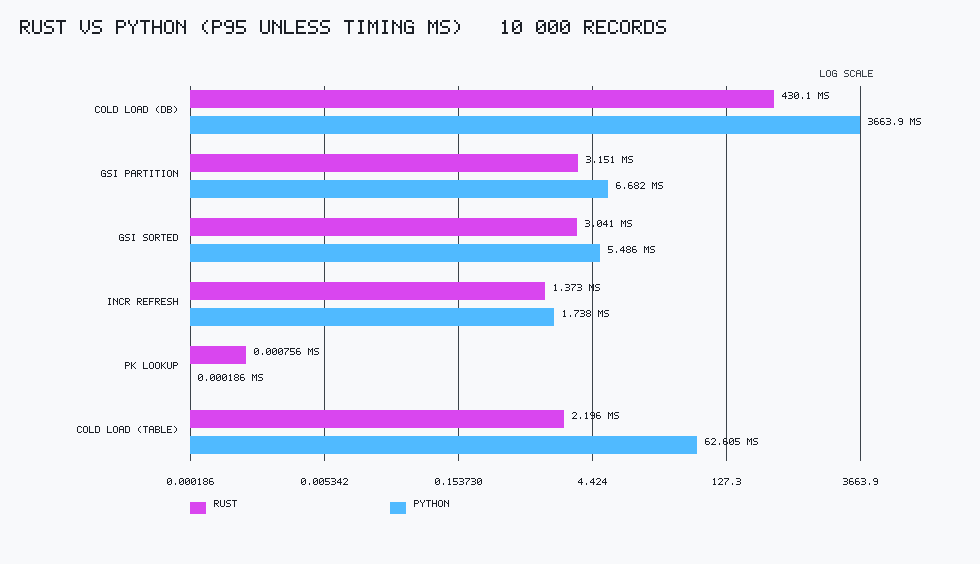
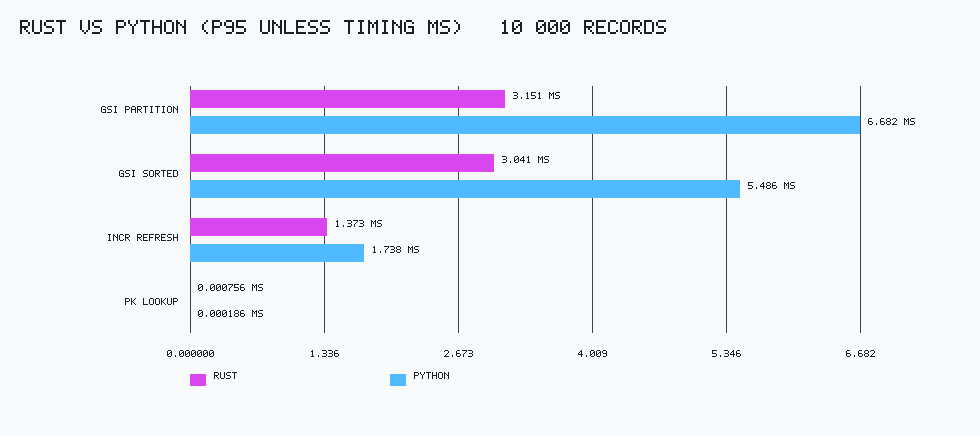
Use zero-based scales for benchmark charts

diff --git a/features/steps/benchmark_steps.py b/features/steps/benchmark_steps.py
@@ -519,8 +519,6 @@ def _render_grouped_bar_chart(  # pragma: no cover - exercised via tools/bench_c
         if data.get(cat, {}).get(label, 0.0) > 0
     ]
     max_val = max(values) if values else 1.0
-    min_val = min(values) if values else max_val
-    use_log = values and max_val / max(min_val, 1e-9) > 20
     plot_top = margin_top
     plot_bottom = height - margin_bottom
     plot_height = plot_bottom - plot_top
@@ -528,12 +526,8 @@ def _render_grouped_bar_chart(  # pragma: no cover - exercised via tools/bench_c
     _draw_line(rows, margin_left, plot_bottom, width - margin_right, plot_bottom, axis_color)
     y_ticks = 5
     for idx in range(y_ticks + 1):
-        if use_log:
-            val = min_val * (max_val / min_val) ** (idx / y_ticks)
-            y = plot_bottom - int(plot_height * idx / y_ticks)
-        else:
-            val = max_val * idx / y_ticks
-            y = plot_bottom - int(plot_height * idx / y_ticks)
+        val = max_val * idx / y_ticks
+        y = plot_bottom - int(plot_height * idx / y_ticks)
         _draw_line(rows, margin_left - 4, y, margin_left, y, axis_color)
         label = _format_value_ms(val).replace(" MS", "")
         _draw_text(rows, max(margin_left - 8 - _text_width(label, 1), 0), y - 3, label, text_color, scale=1)
@@ -567,19 +561,7 @@ def _render_grouped_bar_chart(  # pragma: no cover - exercised via tools/bench_c
         for idx, label in enumerate(series_labels):
             color = palette[idx % len(palette)]
             value = data.get(cat, {}).get(label, 0.0)
-            if use_log:
-                if value <= 0 or min_val <= 0 or max_val <= min_val:
-                    bar_h = 0
-                else:
-                    import math
-
-                    bar_h = int(
-                        (math.log(value) - math.log(min_val))
-                        / (math.log(max_val) - math.log(min_val))
-                        * plot_height
-                    )
-            else:
-                bar_h = int((value / max_val) * plot_height) if max_val else 0
+            bar_h = int((value / max_val) * plot_height) if max_val else 0
             x0 = cursor_x + idx * (bar_width + bar_gap)
             y0 = plot_bottom - bar_h
             _draw_rect(rows, x0, y0, bar_width, bar_h, color)
@@ -593,8 +575,6 @@ def _render_grouped_bar_chart(  # pragma: no cover - exercised via tools/bench_c
         _draw_rect(rows, legend_x, legend_y, 14, 10, color)
         _draw_text(rows, legend_x + 20, legend_y - 2, label.upper(), text_color, scale=1)
         legend_x += 180
-    if use_log:
-        _draw_text(rows, width - 140, margin_top - 20, "log scale", axis_color, scale=1)
     _write_png(path, width, height, rows)
 
 
@@ -638,8 +618,6 @@ def _render_horizontal_bar_chart(  # pragma: no cover - exercised via tools/benc
         if data.get(cat, {}).get(label) is not None
     ]
     max_val = max(values) if values else 1.0
-    min_val = min(v for v in values if v is not None) if values else max_val
-    use_log = values and max_val / max(min_val, 1e-9) > 20
 
     plot_left = margin_left
     plot_right = width - margin_right
@@ -649,14 +627,8 @@ def _render_horizontal_bar_chart(  # pragma: no cover - exercised via tools/benc
     # x-axis ticks
     x_ticks = 5
     for idx in range(x_ticks + 1):
-        if use_log:
-            import math
-
-            val = min_val * (max_val / min_val) ** (idx / x_ticks)
-            x = plot_left + int(plot_width * idx / x_ticks)
-        else:
-            val = max_val * idx / x_ticks
-            x = plot_left + int(plot_width * idx / x_ticks)
+        val = max_val * idx / x_ticks
+        x = plot_left + int(plot_width * idx / x_ticks)
         _draw_line(rows, x, plot_top - 4, x, height - margin_bottom + 6, axis_color)
         label = value_formatter(val).replace(" MS", "")
         _draw_text(rows, x - _text_width(label, 1) // 2, height - margin_bottom + 24, label, text_color, scale=1)
@@ -675,19 +647,7 @@ def _render_horizontal_bar_chart(  # pragma: no cover - exercised via tools/benc
         for idx, label in enumerate(series_labels):
             color = palette[idx % len(palette)]
             value = data.get(cat, {}).get(label, 0.0)
-            if use_log:
-                if value <= 0 or min_val <= 0 or max_val <= min_val:
-                    bar_w = 0
-                else:
-                    import math
-
-                    bar_w = int(
-                        (math.log(value) - math.log(min_val))
-                        / (math.log(max_val) - math.log(min_val))
-                        * plot_width
-                    )
-            else:
-                bar_w = int((value / max_val) * plot_width) if max_val else 0
+            bar_w = int((value / max_val) * plot_width) if max_val else 0
             y0 = cursor_y + idx * (bar_height + series_gap)
             _draw_rect(rows, plot_left, y0, bar_w, bar_height, color)
             value_text = value_formatter(value)
@@ -703,8 +663,6 @@ def _render_horizontal_bar_chart(  # pragma: no cover - exercised via tools/benc
         _draw_rect(rows, legend_x, legend_y, 16, 12, color)
         _draw_text(rows, legend_x + 24, legend_y - 2, label.upper(), text_color, scale=1)
         legend_x += 200
-    if use_log:
-        _draw_text(rows, width - 160, margin_top - 20, "log scale", axis_color, scale=1)
     _write_png(path, width, height, rows)
 
 

diff --git a/tools/bench_compare.py b/tools/bench_compare.py
@@ -27,6 +27,7 @@ BACKENDS = {
 }
 
 OUT_DIR = Path("benchmarks/output_compare/charts")
+COLD_LOAD_BENCHMARKS = {"single_table_cold_load", "full_database_cold_load"}
 
 
 def _pick_value(entry: dict) -> float | None:
@@ -79,20 +80,36 @@ def main() -> None:
 
     for total in totals:
         benchmarks = combined[total]
-        categories = []
-        data = {}
-        for name in sorted(benchmarks.keys()):
-            categories.append(viz._compact_benchmark_name(name))
-            data[categories[-1]] = {}
-            for backend in ("rust", "python"):
-                value = benchmarks[name].get(backend)
-                if value is not None:
-                    data[categories[-1]][backend] = float(value)
-        if not categories:
-            continue
-        title = f"Rust vs Python (p95 unless timing_ms) — {total:,} records"
-        path = OUT_DIR / f"compare_{total}.png"
-        viz._render_horizontal_bar_chart(title, categories, ["rust", "python"], data, path)
+        cold_order = [
+            name
+            for name in ("full_database_cold_load", "single_table_cold_load")
+            if name in benchmarks
+        ]
+        other_order = [
+            name for name in sorted(benchmarks.keys()) if name not in COLD_LOAD_BENCHMARKS
+        ]
+        for suffix, names in (("cold_load", cold_order), ("", other_order)):
+            categories = []
+            data = {}
+            for name in names:
+                categories.append(viz._compact_benchmark_name(name))
+                data[categories[-1]] = {}
+                for backend in ("rust", "python"):
+                    value = benchmarks[name].get(backend)
+                    if value is not None:
+                        data[categories[-1]][backend] = float(value)
+            if not categories:
+                continue
+            title = f"Rust vs Python (p95 unless timing_ms) — {total:,} records"
+            filename = f"compare_{total}.png" if not suffix else f"compare_{total}_{suffix}.png"
+            path = OUT_DIR / filename
+            viz._render_horizontal_bar_chart(
+                title,
+                categories,
+                ["rust", "python"],
+                data,
+                path,
+            )
 
 
 if __name__ == "__main__":

diff --git a/README.md b/README.md
@@ -289,11 +289,14 @@ Python-only benchmarks were run at 100, 1k, 10k, and 100k totals to mirror the s
 
 ### Rust vs Python comparison (p95 or timing_ms)
 
-Side-by-side bars for each benchmark at common corpus sizes. Values are p95 for iterative benchmarks and timing_ms for cold loads.
+Side-by-side bars for each benchmark at common corpus sizes. Values are p95 for iterative benchmarks and timing_ms for cold loads. Cold loads are charted separately so all charts can share a zero-based scale.
 
-![Rust vs Python at 1k](benchmarks/output_compare/charts/compare_1000.png)
-![Rust vs Python at 10k](benchmarks/output_compare/charts/compare_10000.png)
-![Rust vs Python at 100k](benchmarks/output_compare/charts/compare_100000.png)
+![Rust vs Python at 1k (queries)](benchmarks/output_compare/charts/compare_1000.png)
+![Rust vs Python at 10k (queries)](benchmarks/output_compare/charts/compare_10000.png)
+![Rust vs Python at 100k (queries)](benchmarks/output_compare/charts/compare_100000.png)
+![Rust vs Python at 1k (cold load)](benchmarks/output_compare/charts/compare_1000_cold_load.png)
+![Rust vs Python at 10k (cold load)](benchmarks/output_compare/charts/compare_10000_cold_load.png)
+![Rust vs Python at 100k (cold load)](benchmarks/output_compare/charts/compare_100000_cold_load.png)
 
 ### Memory footprint (RSS) snapshots
 
